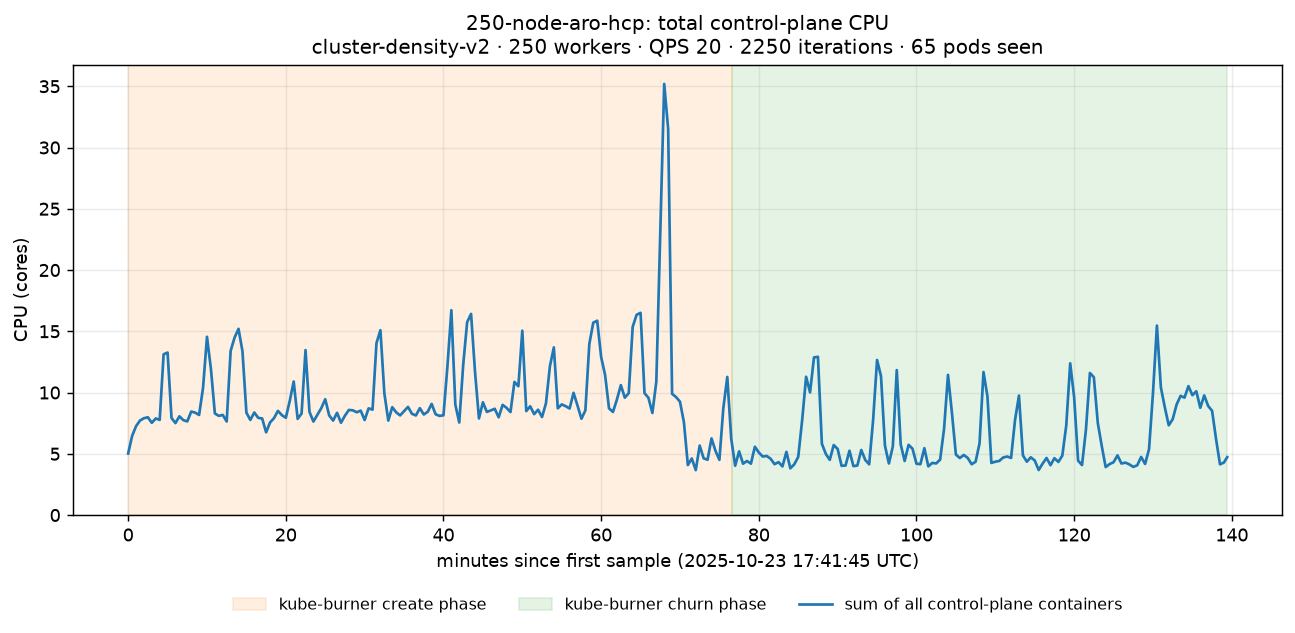
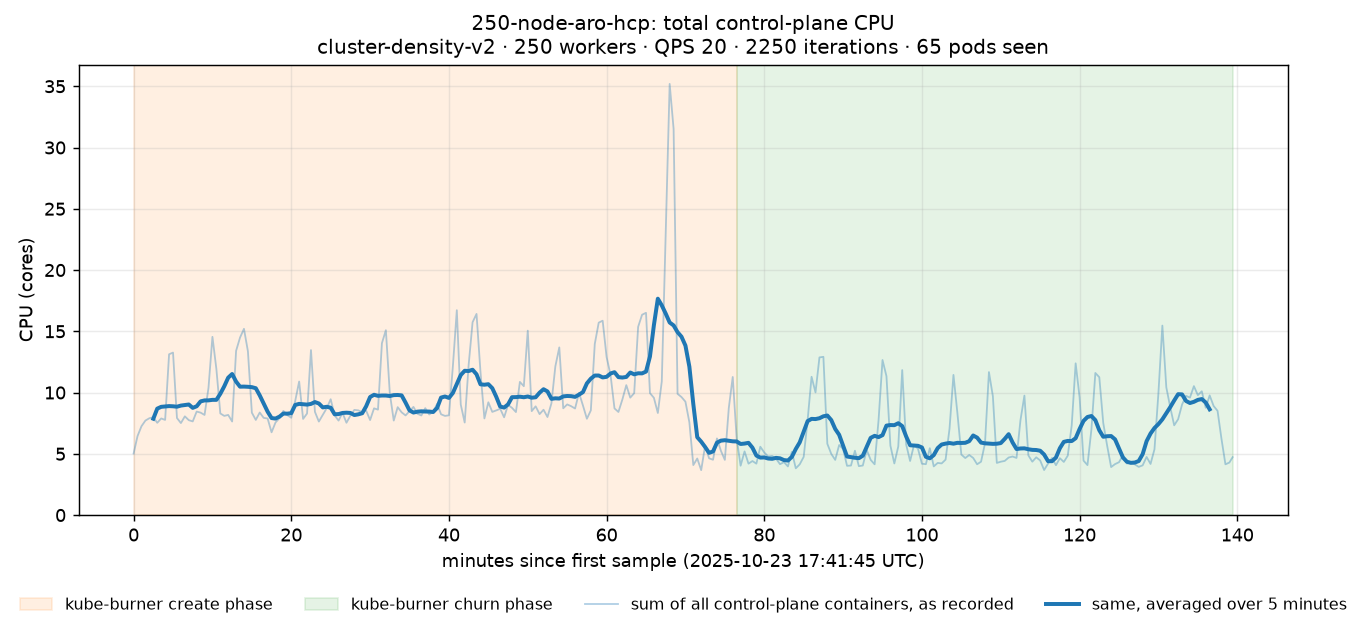
feat: add 5-minute CPU averages to graphs and per-copy container usage script

diff --git a/hack/hcp-scale-analysis/container_usage.py b/hack/hcp-scale-analysis/container_usage.py
@@ -1,0 +1,115 @@
+#!/usr/bin/env python3
+"""Usage percentiles of one control-plane container, per copy.
+
+Reads one raw kube-burner dump (.ndjson or .ndjson.gz), keeps one container's CPU and
+memory readings from the hosted cluster under test during the kube-burner churn phase,
+and prints each copy's (pod's) number of readings and chosen percentiles: by default
+the median (p50, typical usage) and p95 (usage at busy moments). Copies are listed
+busiest first, by median. Repeated copies of the same reading, as in the 250- and
+500-node dumps, are counted once.
+
+Usage:
+  python3 container_usage.py DUMP [--container NAME] [--percentiles P,P,...]
+
+Requires numpy, and matplotlib through plot_controlplane_usage.
+"""
+import argparse
+import datetime as dt
+import json
+import os
+import sys
+from collections import defaultdict
+
+import numpy as np
+
+from hcputil import opener
+from plot_controlplane_usage import BYTES_TO_GIB, CPU_METRIC, CPU_TO_CORES, MEMORY_METRIC, parse_time
+
+# The test takes its last reading a fraction of a second after the churn phase ends.
+END_TOLERANCE = dt.timedelta(seconds=1)
+
+
+def percentile_list(text):
+    """Parse comma-separated percentiles such as "50,75,95", sorted and without repeats."""
+    values = [float(part) for part in text.split(",")]
+    if any(not 0 <= p <= 100 for p in values):
+        raise argparse.ArgumentTypeError("percentiles must be between 0 and 100")
+    return sorted(set(values))
+
+
+def parse_args():
+    parser = argparse.ArgumentParser(description=__doc__,
+                                     formatter_class=argparse.RawDescriptionHelpFormatter)
+    parser.add_argument("dump", help="raw kube-burner dump (.ndjson or .ndjson.gz)")
+    parser.add_argument("--container", default="kube-apiserver",
+                        help="container to look at (default: kube-apiserver)")
+    parser.add_argument("--percentiles", type=percentile_list, default=[50.0, 95.0], metavar="P,P,...",
+                        help="comma-separated percentiles to print, from 0 to 100 "
+                             "(default: 50,95; 100 is the highest reading)")
+    return parser.parse_args()
+
+
+def read_container(path, container):
+    """Return (job_summary, readings), where readings[metric][(namespace, pod)] maps each
+    reading's time to its raw value, for every copy of `container`."""
+    job = None
+    readings = {CPU_METRIC: defaultdict(dict), MEMORY_METRIC: defaultdict(dict)}
+    with opener(path) as f:
+        for line in f:
+            if '"jobSummary"' not in line and CPU_METRIC not in line and MEMORY_METRIC not in line:
+                continue
+            try:
+                record = json.loads(line)
+            except ValueError:
+                continue
+            metric = record.get("metricName")
+            if metric == "jobSummary":
+                if job is None and record.get("clusterName"):
+                    job = record
+                continue
+            labels = record.get("labels", {})
+            if metric in readings and labels.get("container") == container:
+                copy = readings[metric][(labels.get("namespace", ""), labels.get("pod", ""))]
+                copy.setdefault(parse_time(record["timestamp"]), record["value"])
+    return job or {}, readings
+
+
+def main():
+    args = parse_args()
+    dump = os.path.expanduser(args.dump)
+    job, readings = read_container(dump, args.container)
+    cluster_id = job.get("clusterName")
+    churn_start = parse_time(job.get("churnStartTimestamp"))
+    churn_end = parse_time(job.get("churnEndTimestamp"))
+    if not (cluster_id and churn_start and churn_end):
+        sys.exit(f"{dump} has no churn phase; only runs with one are handled so far")
+
+    name = os.path.basename(dump).removesuffix(".gz").removesuffix(".ndjson")
+    print(f"{name}: {args.container} container, churn phase "
+          f"{churn_start:%H:%M:%S}-{churn_end:%H:%M:%S} UTC")
+    headers = [f"p{p:g}" for p in args.percentiles]
+    columns = [max(6, len(h)) for h in headers]
+    for metric, label, scale, digits in ((MEMORY_METRIC, "memory (GiB)", BYTES_TO_GIB, 2),
+                                         (CPU_METRIC, "CPU (cores)", CPU_TO_CORES, 3)):
+        copies = []
+        for (namespace, pod), copy in readings[metric].items():
+            if cluster_id not in namespace:
+                continue
+            values = [value * scale for when, value in copy.items()
+                      if churn_start <= when <= churn_end + END_TOLERANCE]
+            if values:
+                results = [np.percentile(values, p) for p in args.percentiles]
+                copies.append((np.median(values), results, len(values), pod))
+        print(f"\n{label}")
+        if not copies:
+            print(f"  no readings for container {args.container!r}")
+            continue
+        width = max(len(pod) for *_, pod in copies)
+        print(f"  {'copy':{width}}  readings" + "".join(f"  {h:>{c}}" for h, c in zip(headers, columns)))
+        for _, results, count, pod in sorted(copies, key=lambda copy: copy[0], reverse=True):
+            print(f"  {pod:{width}}  {count:8d}"
+                  + "".join(f"  {r:{c}.{digits}f}" for r, c in zip(results, columns)))
+
+
+if __name__ == "__main__":
+    main()

diff --git a/hack/hcp-scale-analysis/plot_controlplane_usage.py b/hack/hcp-scale-analysis/plot_controlplane_usage.py
@@ -6,7 +6,8 @@ pod metrics of the hosted cluster under test (the namespace containing
 jobSummary.clusterName), adds up every container at each timestamp, and writes
 these files to graphs/<dump name>/ next to this script (or to --output DIR):
 
-  total-cpu.png     total control-plane CPU (cores) over time
+  total-cpu.png     total control-plane CPU (cores) over time, as recorded and averaged
+                    over 5 minutes (which hides bursts lasting only seconds)
   total-memory.png  total control-plane memory working set (GiB) over time
   summary.json      job settings, phase times, sampling interval, gaps and skipped duplicates
 
@@ -39,6 +40,7 @@ MEMORY_METRIC = "podMemory-Controlplane"  # container_memory_working_set_bytes
 CPU_TO_CORES = 1 / 100
 BYTES_TO_GIB = 1 / 1024 ** 3
 GAP_FACTOR = 1.5  # a step this many times the usual sampling interval means samples are missing
+SMOOTH_MINUTES = 5
 PHASE_COLORS = ["tab:orange", "tab:green"]
 GRAPHS_DIR = os.path.join(os.path.dirname(os.path.abspath(__file__)), "graphs")
 
@@ -148,11 +150,22 @@ def job_phases(job):
     return [("job", start, end)]
 
 
-def plot_total(path, points, origin, interval, phases, title, ylabel, color):
-    fig, ax = plt.subplots(figsize=(12, 4.5))
-    for (name, start, end), shade in zip(phases, PHASE_COLORS):
-        ax.axvspan(minutes_since(origin, start), minutes_since(origin, end),
-                   color=shade, alpha=0.12, label=f"kube-burner {name} phase")
+def rolling_average(points, minutes):
+    """Centered moving average of [(time, value)]: each point becomes the mean of the readings
+    in the `minutes` around it, kept only where that whole window lies inside the run."""
+    half = dt.timedelta(minutes=minutes) / 2
+    first, last = points[0][0], points[-1][0]
+    averaged = []
+    for when, _ in points:
+        if when - half < first or when + half > last:
+            continue
+        window = [value for other, value in points if when - half <= other < when + half]
+        averaged.append((when, sum(window) / len(window)))
+    return averaged
+
+
+def line_points(points, origin, interval):
+    """Plot coordinates (minutes, value), with a break wherever samples are missing."""
     xs, ys = [], []
     for i, (when, value) in enumerate(points):
         if i and (when - points[i - 1][0]).total_seconds() > GAP_FACTOR * interval:
@@ -160,13 +173,29 @@ def plot_total(path, points, origin, interval, phases, title, ylabel, color):
             ys.append(float("nan"))  # break the line instead of drawing across missing samples
         xs.append(minutes_since(origin, when))
         ys.append(value)
-    ax.plot(xs, ys, color=color, lw=1.5, label="sum of all control-plane containers")
+    return xs, ys
+
+
+def plot_total(path, points, origin, interval, phases, title, ylabel, color, smooth_minutes=None):
+    fig, ax = plt.subplots(figsize=(12, 4.5))
+    for (name, start, end), shade in zip(phases, PHASE_COLORS):
+        ax.axvspan(minutes_since(origin, start), minutes_since(origin, end),
+                   color=shade, alpha=0.12, label=f"kube-burner {name} phase")
+    xs, ys = line_points(points, origin, interval)
+    if smooth_minutes:
+        ax.plot(xs, ys, color=color, lw=1.0, alpha=0.35,
+                label="sum of all control-plane containers, as recorded")
+        smooth_xs, smooth_ys = line_points(rolling_average(points, smooth_minutes), origin, interval)
+        ax.plot(smooth_xs, smooth_ys, color=color, lw=2.2, label=f"same, averaged over {smooth_minutes} minutes")
+    else:
+        ax.plot(xs, ys, color=color, lw=1.5, label="sum of all control-plane containers")
     ax.set_title(title, fontsize=11)
     ax.set_xlabel(f"minutes since first sample ({origin:%Y-%m-%d %H:%M:%S} UTC)")
     ax.set_ylabel(ylabel)
     ax.set_ylim(bottom=0)
     ax.grid(True, alpha=0.25)
-    ax.legend(loc="upper center", bbox_to_anchor=(0.5, -0.15), ncol=3, frameon=False, fontsize=9)
+    ax.legend(loc="upper center", bbox_to_anchor=(0.5, -0.15), ncol=4 if smooth_minutes else 3,
+              frameon=False, fontsize=9)
     fig.savefig(path, dpi=130, bbox_inches="tight")
     plt.close(fig)
 
@@ -213,7 +242,8 @@ def main():
     cpu_interval, cpu_gaps = interval_and_gaps(cpu)
     memory_interval, memory_gaps = interval_and_gaps(memory)
     plot_total(os.path.join(output, "total-cpu.png"), cpu, origin, cpu_interval, phases,
-               f"{name}: total control-plane CPU\n{subtitle}", "CPU (cores)", "tab:blue")
+               f"{name}: total control-plane CPU\n{subtitle}", "CPU (cores)", "tab:blue",
+               smooth_minutes=SMOOTH_MINUTES)
     plot_total(os.path.join(output, "total-memory.png"), memory, origin, memory_interval, phases,
                f"{name}: total control-plane memory\n{subtitle}", "memory working set (GiB)", "tab:red")
 
